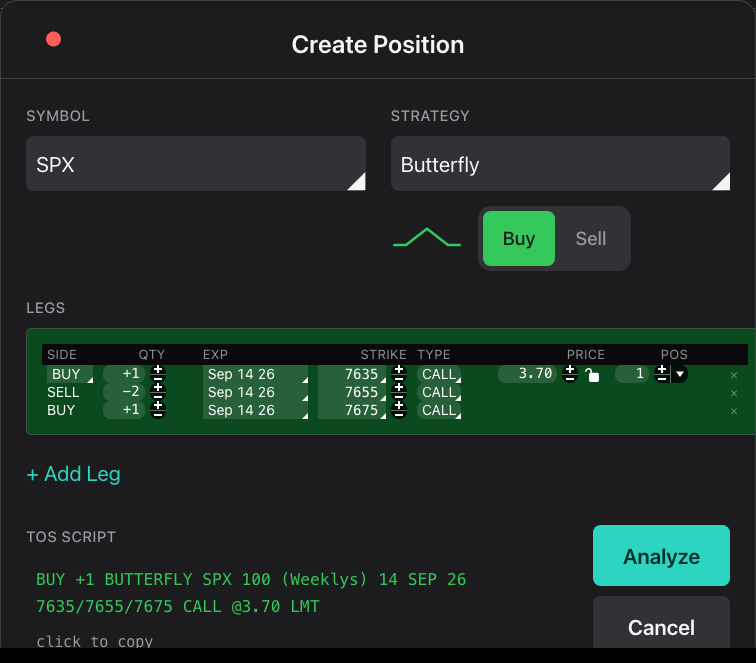
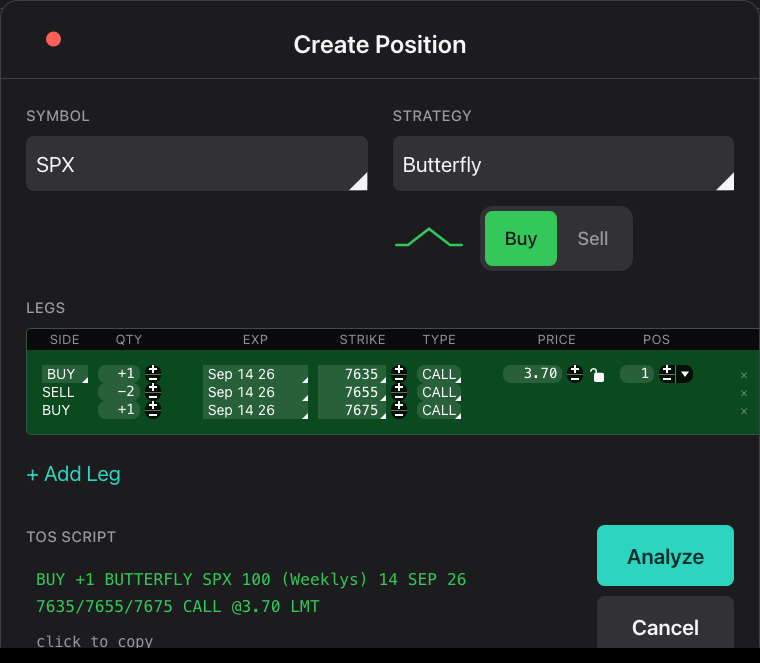
fix(dialog): header flush to legs panel; 15px on the rows only
Padding no longer sits on the panel, so the header band touches the top
and sides. 15px is above the first row, below the last, and left/right
of the rows. Group gaps are spacer columns so labels centre on fields.

diff --git a/web/components/options-lab/PositionBuilder.tsx b/web/components/options-lab/PositionBuilder.tsx
@@ -369,15 +369,31 @@ const LEGS_GROUP_GAP = 32;
  * Table + 15px pad + 20px dialog inset, both sides.
  * Measured against max-content legs (no w-full). Do not derive from the window.
  */
-const PANEL_W = 756;
+const PANEL_W = 760;
 const PANEL_DEFAULT_OFFSET = { x: 48, y: 72 };
 
-function legsGroupPad(col: string): CSSProperties | undefined {
-  if (col === "QTY" || col === "TYPE" || col === "POS") {
-    return { paddingRight: LEGS_GROUP_GAP };
-  }
-  return undefined;
+/** Padding belongs on the rows, never on the panel/header band. */
+function legsPad(opts: {
+  first?: boolean;
+  last?: boolean;
+  above?: boolean;
+  below?: boolean;
+  head?: boolean;
+}): CSSProperties {
+  return {
+    ...(opts.head ? { textAlign: "center" as const } : null),
+    ...(opts.first ? { paddingLeft: LEGS_PAD } : null),
+    ...(opts.last ? { paddingRight: LEGS_PAD } : null),
+    ...(opts.above ? { paddingTop: LEGS_PAD } : null),
+    ...(opts.below ? { paddingBottom: LEGS_PAD } : null),
+  };
 }
+
+const LEGS_GAP_STYLE: CSSProperties = {
+  width: LEGS_GROUP_GAP,
+  minWidth: LEGS_GROUP_GAP,
+  padding: 0,
+};
 
 export default function PositionBuilder({
   open,
@@ -1822,11 +1838,10 @@ export default function PositionBuilder({
             data-blotter-kind={blotterKind}
             data-pkg-delta={pkgDelta == null ? "" : String(pkgDelta)}
             data-iv={fmtIv(position.legs[0]?.volatility)}
-            className="rounded border border-[var(--color-separator)]"
+            className="overflow-hidden rounded border border-[var(--color-separator)]"
             style={{
               ...BLOTTER_CSS_VARS,
               backgroundColor: blotterBg,
-              padding: LEGS_PAD,
               width: "max-content",
             }}
           >
@@ -1847,36 +1862,50 @@ export default function PositionBuilder({
                     c !== "SYMBOL" &&
                     c !== "VOL" &&
                     c !== "DELTA",
-                ).flatMap((col) => {
+                ).flatMap((col, i) => {
                   const heading = (
                     <th
                       key={col}
-                      className={
-                        CARD_TH +
-                        (col === "QTY" ||
-                        col === "STRIKE" ||
-                        col === "PRICE"
-                          ? " text-right"
-                          : "")
-                      }
-                      style={legsGroupPad(col)}
+                      className={CARD_TH}
+                      style={legsPad({
+                        first: i === 0,
+                        head: true,
+                      })}
                     >
                       {col}
                     </th>
                   );
+                  const gap = (
+                    <th
+                      key={`${col}-gap`}
+                      className={CARD_TH}
+                      style={LEGS_GAP_STYLE}
+                      aria-hidden
+                    />
+                  );
+                  if (col === "QTY" || col === "TYPE") return [heading, gap];
                   if (col !== "PRICE") return [heading];
                   return [
                     heading,
                     <th
                       key="pos"
-                      className={CARD_TH + " text-right"}
-                      style={legsGroupPad("POS")}
+                      className={CARD_TH}
+                      style={legsPad({ head: true })}
                     >
                       POS
                     </th>,
+                    <th
+                      key="pos-gap"
+                      className={CARD_TH}
+                      style={LEGS_GAP_STYLE}
+                      aria-hidden
+                    />,
                   ];
                 })}
-                <th className={CARD_TH} />
+                <th
+                  className={CARD_TH}
+                  style={legsPad({ last: true, head: true })}
+                />
               </tr>
             </thead>
             <tbody>
@@ -1886,7 +1915,9 @@ export default function PositionBuilder({
                 const strikeDecimals = strikeGridDecimals(legStrikes);
                 const signed = signedActualQty(leg);
                 const isTop = row === 0;
+                const isBot = row === orderedLegs.length - 1;
                 const legSide = leg.side === "long" ? "BUY" : "SELL";
+                const rowPad = { above: isTop, below: isBot };
                 const valueField =
                   "inline-flex h-[18px] items-center justify-end rounded-sm " +
                   FIELD_FILL +
@@ -1902,6 +1933,7 @@ export default function PositionBuilder({
                   >
                     <td
                       className={CARD_TD + " " + textMain}
+                      style={legsPad({ first: true, ...rowPad })}
                       onClick={(e) => e.stopPropagation()}
                     >
                       {isTop ? (
@@ -1927,7 +1959,7 @@ export default function PositionBuilder({
                     </td>
                     <td
                       className={CARD_TD + " text-right font-mono " + textMain}
-                      style={legsGroupPad("QTY")}
+                      style={legsPad(rowPad)}
                     >
                       <div className="flex items-center justify-end gap-1">
                         <span
@@ -1954,7 +1986,15 @@ export default function PositionBuilder({
                         />
                       </div>
                     </td>
-                    <td className={CARD_TD} onClick={(e) => e.stopPropagation()}>
+                    <td
+                      style={{ ...LEGS_GAP_STYLE, ...legsPad(rowPad) }}
+                      aria-hidden
+                    />
+                    <td
+                      className={CARD_TD}
+                      style={legsPad(rowPad)}
+                      onClick={(e) => e.stopPropagation()}
+                    >
                       {hasExps ? (
                         <CardMenuField surface="card" fit="min">
                           <select
@@ -1993,7 +2033,10 @@ export default function PositionBuilder({
                         </span>
                       )}
                     </td>
-                    <td className={CARD_TD + " text-right font-mono " + textMain}>
+                    <td
+                      className={CARD_TD + " text-right font-mono " + textMain}
+                      style={legsPad(rowPad)}
+                    >
                       <div className="flex items-center justify-end gap-1">
                         {legStrikes.length ? (
                           <CardMenuField surface="card" fit="min">
@@ -2054,7 +2097,7 @@ export default function PositionBuilder({
                     </td>
                     <td
                       className={CARD_TD + " " + textMain}
-                      style={legsGroupPad("TYPE")}
+                      style={legsPad(rowPad)}
                     >
                       <CardMenuField surface="card" fit="min">
                         <button
@@ -2078,7 +2121,14 @@ export default function PositionBuilder({
                         </button>
                       </CardMenuField>
                     </td>
-                    <td className={CARD_TD + " text-right font-mono " + textMain}>
+                    <td
+                      style={{ ...LEGS_GAP_STYLE, ...legsPad(rowPad) }}
+                      aria-hidden
+                    />
+                    <td
+                      className={CARD_TD + " text-right font-mono " + textMain}
+                      style={legsPad(rowPad)}
+                    >
                       {isTop ? (
                         <div className="flex items-center justify-end gap-1">
                           <span
@@ -2122,7 +2172,7 @@ export default function PositionBuilder({
                     </td>
                     <td
                       className={CARD_TD + " text-right font-mono " + textMain}
-                      style={legsGroupPad("POS")}
+                      style={legsPad(rowPad)}
                     >
                       {isTop ? (
                         <div className="flex items-center justify-end gap-1">
@@ -2143,7 +2193,14 @@ export default function PositionBuilder({
                         </div>
                       ) : null}
                     </td>
-                    <td className={CARD_TD}>
+                    <td
+                      style={{ ...LEGS_GAP_STYLE, ...legsPad(rowPad) }}
+                      aria-hidden
+                    />
+                    <td
+                      className={CARD_TD}
+                      style={legsPad({ last: true, ...rowPad })}
+                    >
                       <button
                         type="button"
                         className={

diff --git a/web/e2e/dlg2-layout.spec.ts b/web/e2e/dlg2-layout.spec.ts
@@ -192,6 +192,33 @@ test("AT-DLG-21/22 layout vs prototype — both themes, larger type", async ({
   );
   expect(laid.slack, "no auto-distributed leftover in the table").toBeLessThan(2);
 
+  const flush = await dialog.evaluate((root) => {
+    const surface = root.querySelector('[data-testid="builder-legs-surface"]');
+    const header = root.querySelector('[data-testid="builder-legs-header"]');
+    const first = root.querySelector(
+      '[data-testid="builder-legs-table"] tbody tr td',
+    );
+    const lastRow = root.querySelector(
+      '[data-testid="builder-legs-table"] tbody tr:last-child td:last-child',
+    );
+    const sf = surface!.getBoundingClientRect();
+    const hd = header!.getBoundingClientRect();
+    const cs = getComputedStyle(first!);
+    const csLast = getComputedStyle(lastRow!);
+    return {
+      top: Math.abs(hd.top - sf.top),
+      padTop: cs.paddingTop,
+      padBottom: csLast.paddingBottom,
+      padLeft: cs.paddingLeft,
+      padRight: csLast.paddingRight,
+    };
+  });
+  expect(flush.top, "header flush to panel top").toBeLessThan(3);
+  expect(flush.padTop).toBe("15px");
+  expect(flush.padBottom).toBe("15px");
+  expect(flush.padLeft).toBe("15px");
+  expect(flush.padRight).toBe("15px");
+
   await page.screenshot({ path: join(OUT, "page.png") });
   await dialog.screenshot({ path: join(OUT, "dialog.png") });
 

diff --git a/web/lib/options-lab/dlgHig.test.ts b/web/lib/options-lab/dlgHig.test.ts
@@ -175,6 +175,13 @@ test("AT-DLG-21 legs table sizes to content; no auto-distribution", () => {
   assert.doesNotMatch(builder, /const COLS/);
   assert.match(builder, /LEGS_PAD = 15/);
   assert.match(builder, /LEGS_GROUP_GAP = 32/);
+  const surface = builder.slice(
+    builder.indexOf("data-testid=\"builder-legs-surface\""),
+    builder.indexOf("data-testid=\"builder-legs-table\""),
+  );
+  assert.doesNotMatch(surface, /padding: LEGS_PAD/);
+  assert.match(builder, /above: isTop/);
+  assert.match(builder, /textAlign: "center"/);
 });
 
 test("AT-DLG-22 five additions absent", () => {
